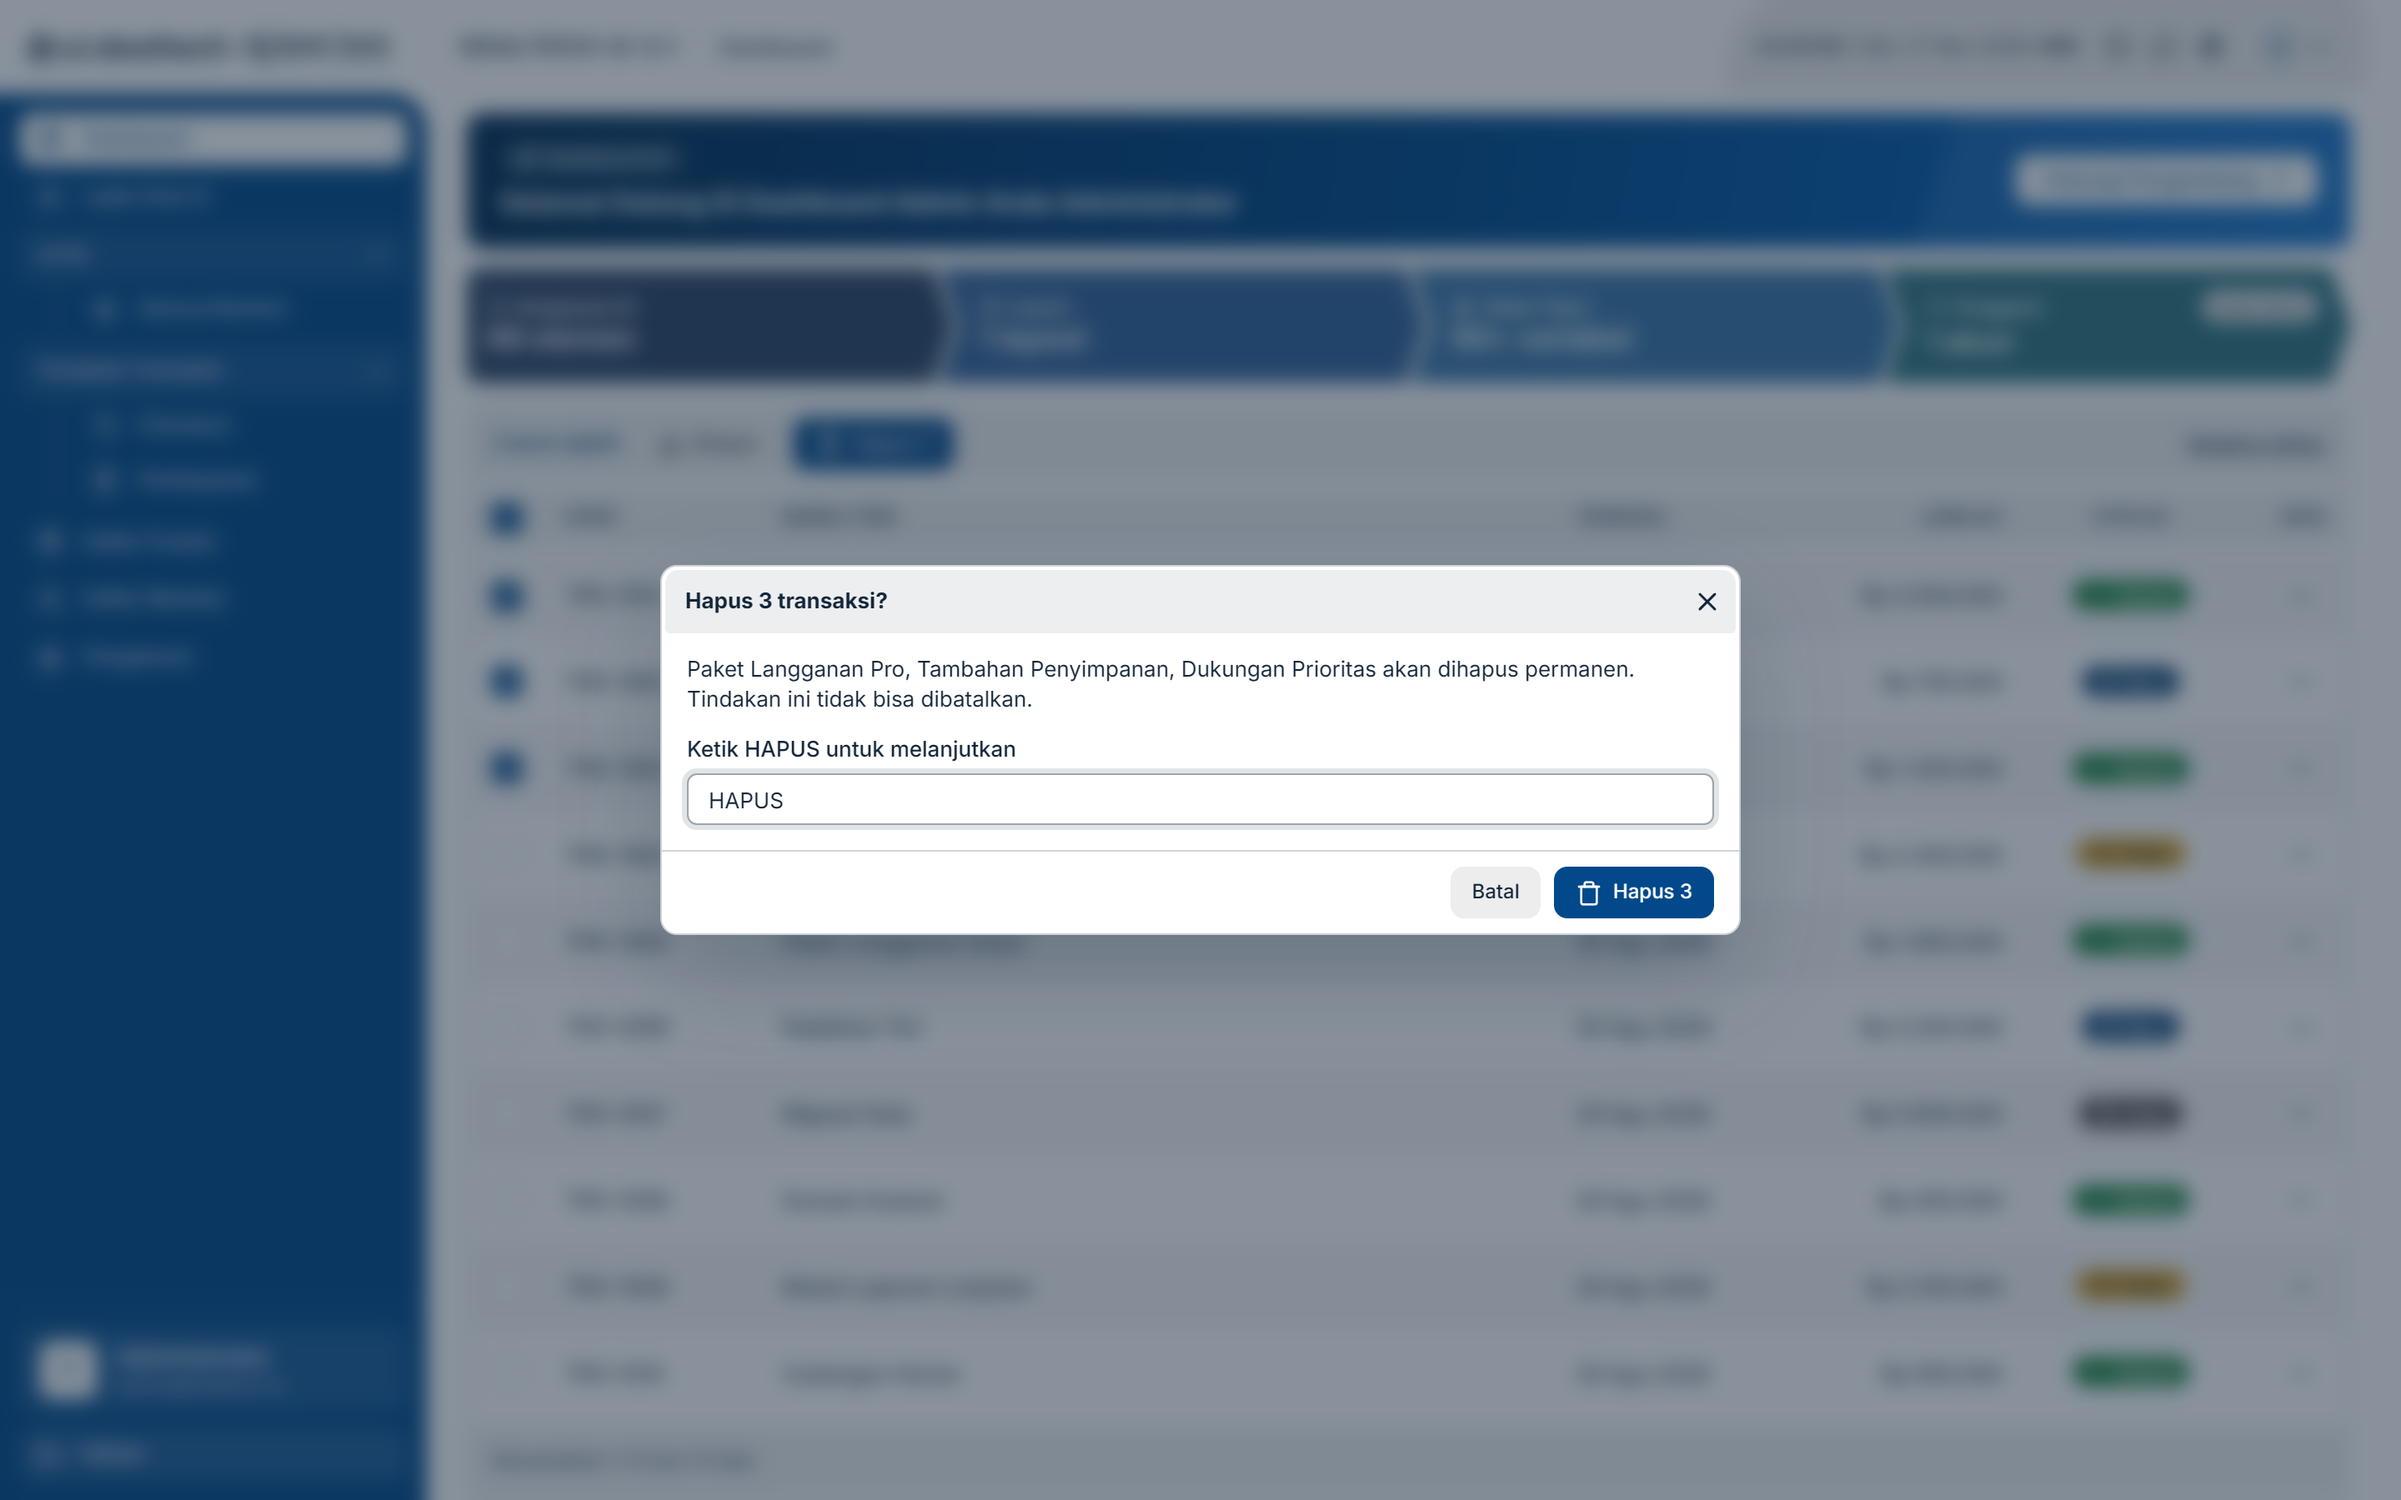
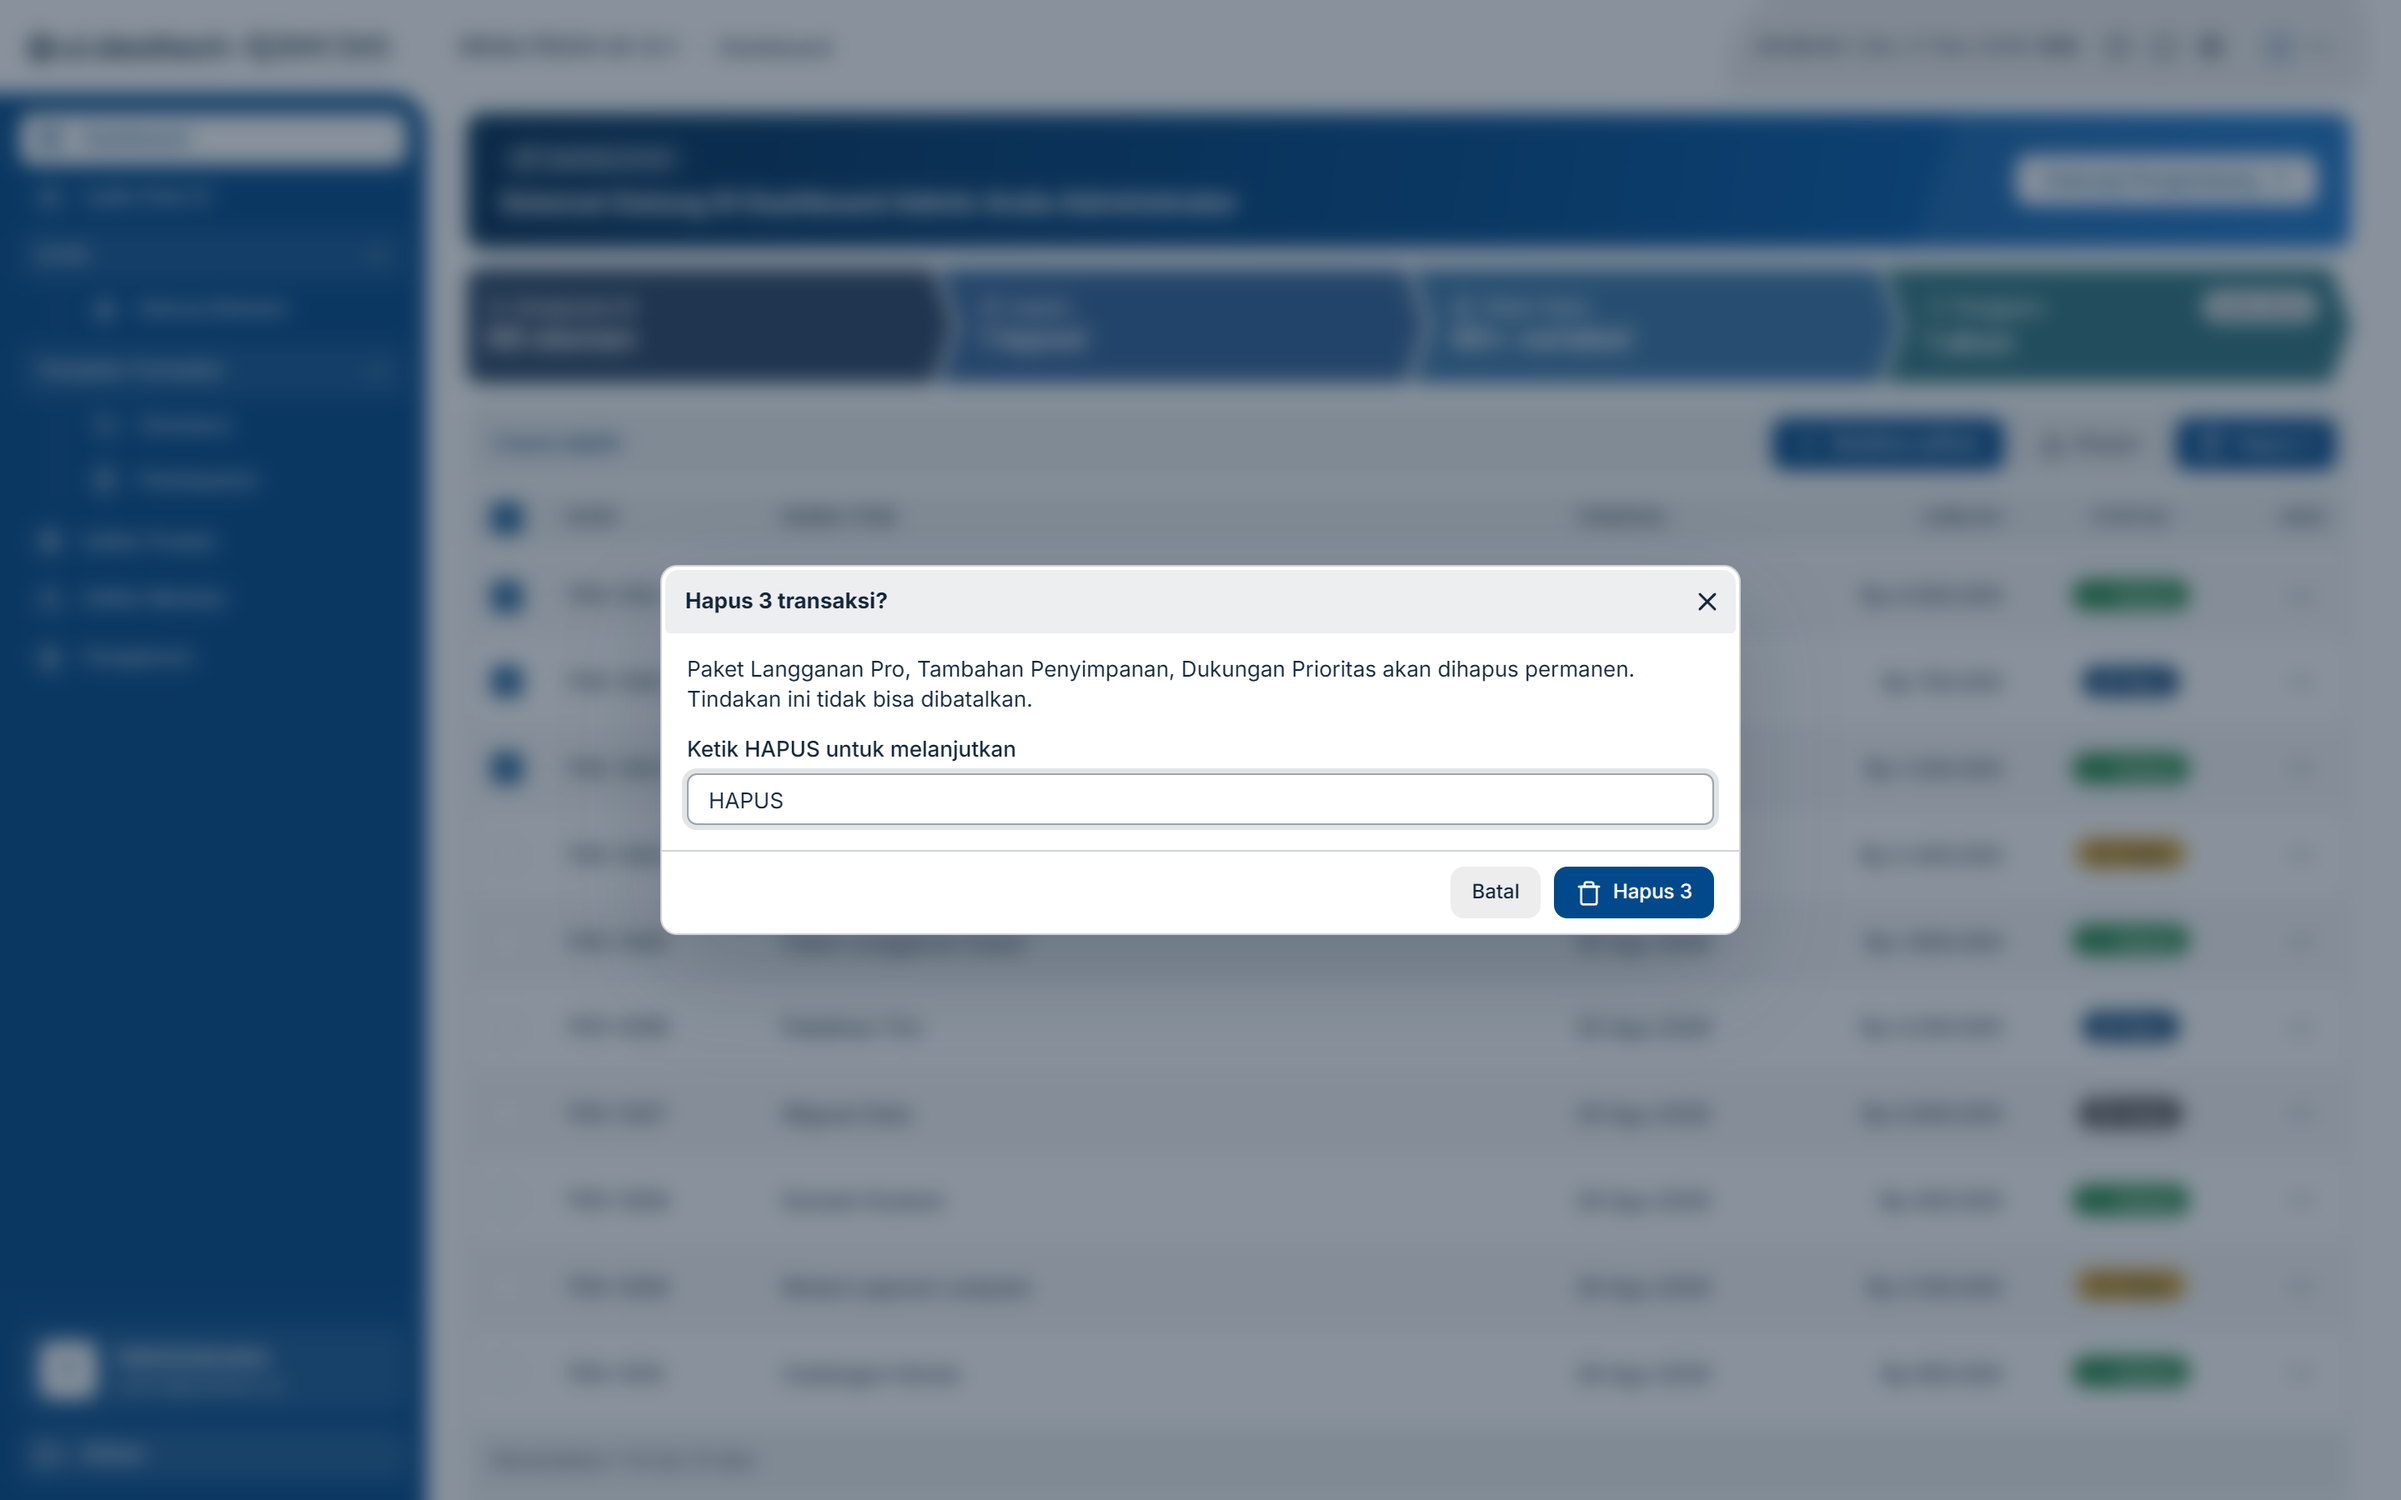
improve bulk bar with all buttons on the right and cancel as a button

Changed region(s): [[0.7188, 0.2489, 0.8438, 0.3422], [0.9062, 0.2489, 1.0, 0.3422], [0.3125, 0.2489, 0.4062, 0.3422]]

diff --git a/templates/starter-v3.1/src/components/ui/tablelist-v1/TableListV1.tsx b/templates/starter-v3.1/src/components/ui/tablelist-v1/TableListV1.tsx
@@ -8,6 +8,9 @@ import {
   type ReactNode,
 } from 'react';
 
+import { X } from 'lucide-react';
+
+import { Button } from '@/components/ui/button/Button';
 import { Checkbox } from '@/components/ui/checkbox/Checkbox';
 import { MenuAksi, type ItemAksi } from '@/components/ui/menu-aksi/MenuAksi';
 import { Pagination } from '@/components/ui/pagination/Pagination';
@@ -260,14 +263,13 @@ export function TableListV1({
       {adaPilihan && jumlahTerpilih > 0 ? (
         <div className="tablelist-v1__massal">
           <span className="tablelist-v1__massal-jumlah">{jumlahTerpilih} baris dipilih</span>
-          <div className="tablelist-v1__massal-aksi">{aksiMassal}</div>
-          <button
-            type="button"
-            className="tablelist-v1__massal-batal"
-            onClick={pilihan.onBersihkan}
-          >
-            Batalkan pilihan
-          </button>
+          {/* Semua tombol di kanan */}
+          <div className="tablelist-v1__massal-aksi">
+            <Button icon={X} onClick={pilihan.onBersihkan}>
+              Batalkan pilihan
+            </Button>
+            {aksiMassal}
+          </div>
         </div>
       ) : (
         toolbar

diff --git a/templates/starter-v3.1/src/components/ui/tablelist-v1/tablelist-v1.css b/templates/starter-v3.1/src/components/ui/tablelist-v1/tablelist-v1.css
@@ -183,28 +183,10 @@
   flex-wrap: wrap;
   align-items: center;
   gap: 8px;
-}
-
-.tablelist-v1__massal-batal {
   margin-left: auto;
-  background: transparent;
-  padding: 0;
-  font-size: 11px;
-  font-weight: 500;
-  color: var(--app-text-muted);
-  text-decoration: underline;
-  cursor: pointer;
-}
-
-.tablelist-v1__massal-batal:hover {
-  color: var(--app-text);
 }
 
 @media (max-width: 639px) {
-  .tablelist-v1__massal-batal {
-    margin-left: 0;
-  }
-
   .tablelist-v1__th--pilih,
   .tablelist-v1__td--pilih {
     padding-left: 12px;
@@ -294,9 +276,6 @@
 }
 .tablelist-v1__massal-jumlah {
   padding-left: 6px;
-}
-.tablelist-v1__massal-batal {
-  padding-right: 6px;
 }
 /* Di bawah tombol aksi */
 .tablelist-v1__header + .table-toolbar,

diff --git a/CHANGELOG.md b/CHANGELOG.md
@@ -10,7 +10,7 @@ Starter baru di `templates/starter-v3.1`, dipasang lewat `dealtech-ui-v3.1` atau
 
 - Kartu tanpa bayangan, cukup border: `--app-control-ring` dan `--app-control-ring-error` bernilai `none`, jadi kartu, seksi, tabel, chart, dan isian form rata dengan halaman. Bayangan tinggal di elemen yang melayang: modal, panel dropdown, tooltip, dan kenop toggle.
 - Header tabel jadi bar abu terpisah setinggi 38px, sudut 3px (`border-collapse: separate` + border bawah transparan + `background-clip: padding-box`), tanpa garis bawah.
-- Toolbar tabel dan bar aksi massal jadi bar abu yang sama tingginya (42,8px), menempel 2px dari tepi kartu dengan sudut atas sejajar radius kartu. Bar massal menggantikan posisi toolbar, jadi tabel tidak bergeser saat baris dipilih.
+- Toolbar tabel dan bar aksi massal jadi bar abu yang sama tingginya (42,8px), menempel 2px dari tepi kartu dengan sudut atas sejajar radius kartu. Bar massal menggantikan posisi toolbar, jadi tabel tidak bergeser saat baris dipilih. Semua tombolnya rata kanan, dengan Batalkan pilihan sebagai tombol bergaya sama di kiri tombol aksi.
 - Klik baris tabel membuka Lihat Detail, atau Ubah bila tidak ada detail: daftar produk ke halaman detail, transaksi dashboard ke modal rincian baru, dan daftar member ke modal Ubah Member (modal tambah kini bisa mengubah). Klik checkbox dan menu aksi tidak ikut memicu klik baris. Aturannya ditulis di `AGENTS.md`.
 - Jarak tabel diseragamkan lewat `--tablelist-jarak`: tepi baris dan header sejajar bar cari, padding sel dua kali padding bar, checkbox tepat di tengah.
 - Kepala `Modal` jadi bar abu setinggi kepala `Seksi` (37,8px, 2px dari tepi, sudut atas sejajar radius modal) dengan judul 13px seperti judul seksi; Esc menutup dropdown yang terbuka dulu, baru modalnya.
